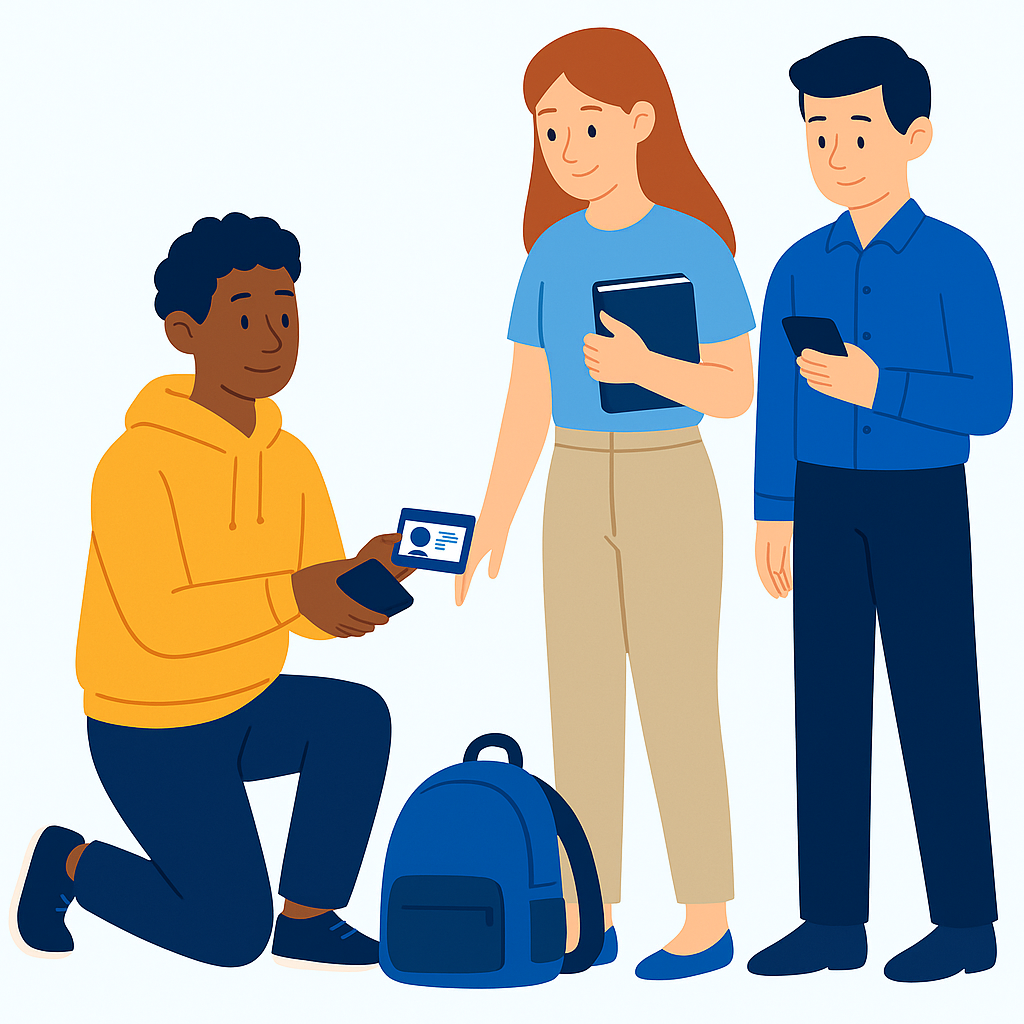
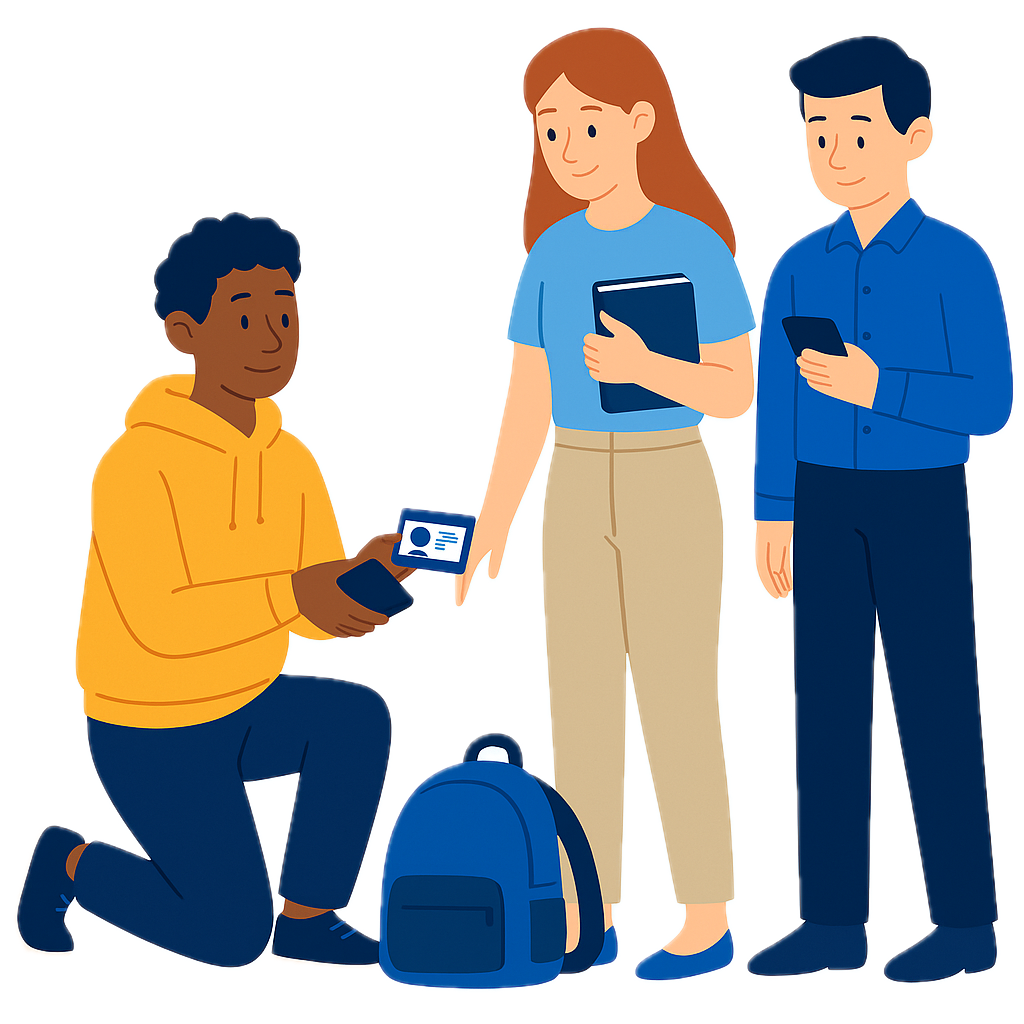
Fix TypeScript and React hydration errors
- Fixed 'Cannot find name userId' error in AuthContext.tsx by using data.body.user._id from API response
- Resolved React hydration error in view-all-items page by adding mounted state check
- Fixed duplicate React keys issue in floor selection dropdown by using index-based keys
- Updated UI text from 'Floor' to 'Location' for better user experience
- Applied hydration fix pattern to itemManagement page as well

diff --git a/src/features/items/components/ItemManagementForm.tsx b/src/features/items/components/ItemManagementForm.tsx
@@ -34,23 +34,38 @@ export default function ItemManagementForm({ initialItems = [] }: ItemManagement
       // Create FormData for upload
       const formData = new FormData();
       
+      // Check if user is logged in first
+      if (!user?.id) {
+        toast.error('You must be logged in to upload items');
+        return;
+      }
+      
       // Required fields with defaults
       formData.append('itemName', values.title);
       formData.append('itemDescription', values.description);
       formData.append('status', values.type); // 'found' or 'lost'
-      formData.append('floor', String(Math.floor(Math.random() * 5) + 1)); // Random floor between 1-5
-      formData.append('uploaderName', user ? `${user.firstName} ${user.lastName}` : 'Anonymous');
-      if (user?.id) {
-        formData.append('userId', user.id);
-      }
+      formData.append('floor', values.location); // location as floor
+      formData.append('uploaderId', user.id); // userID as uploaderId
+      formData.append('uploaderName', `${user.firstName} ${user.lastName}`); // user name as uploaderName
+      
       
       // Optional fields
       if (values.image) {
         formData.append('image', values.image);
+        console.log('🖼 [ItemUpload] Image attached:', {
+          name: (values.image as File).name,
+          size: (values.image as File).size,
+          type: (values.image as File).type
+        });
+      } else {
+        console.log('📷 [ItemUpload] No image attached');
       }
 
-      await uploadItem(formData);
+      console.log('⬆ [ItemUpload] Calling uploadItem API...');
+      const result = await uploadItem(formData);
+      console.log('✅ [ItemUpload] Upload successful:', result);
       
+      console.log('🎉 [ItemUpload] Showing success toast');
       toast.success('Item uploaded successfully!');
       
       // Add the new item to local state
@@ -63,14 +78,21 @@ export default function ItemManagementForm({ initialItems = [] }: ItemManagement
         image: values.image,
         resolved: false,
       };
+      console.log('📝 [ItemUpload] Adding item to local state:', newItem);
       setItems([...items, newItem]);
 
-      toast.success('Item uploaded successfully!');
+      console.log('🔄 [ItemUpload] Resetting form');
       reset();
     } catch (error) {
-      console.error('Error:', error);
+      console.error('❌ [ItemUpload] Upload failed:', error);
+      console.error('❌ [ItemUpload] Error details:', {
+        message: error instanceof Error ? error.message : 'Unknown error',
+        stack: error instanceof Error ? error.stack : undefined
+      });
       toast.error('Failed to upload item. Please try again.');
     }
+    
+    console.log('🏁 [ItemUpload] Form submission completed');
   };
 
   const handleImageChange = (e: ChangeEvent<HTMLInputElement>) => {

diff --git a/src/app/view-all-items/page.tsx b/src/app/view-all-items/page.tsx
@@ -141,7 +141,7 @@ function ItemCard({ item, index, isAdmin }: { item:  Item; index: number; isAdmi
         <p className="text-gray-600 text-xs mb-1">Uploaded by: <span className="font-medium text-gray-800">{uploaderName}</span></p>
         <p className="text-gray-600 text-sm mb-2 line-clamp-2">{item.itemDescription || "No description provided."}</p>
         <div className="flex flex-wrap gap-2 text-xs text-gray-500 mb-2">
-          {item.floor && <span className="bg-blue-50 px-2 py-1 rounded">Floor: {item.floor}</span>}
+          {item.floor && <span className="bg-blue-50 px-2 py-1 rounded">Location: {item.floor}</span>}
           {item.uploadedAt && <span className="bg-gray-50 px-2 py-1 rounded">{new Date(item.uploadedAt).toLocaleDateString()}</span>}
         </div>
         <div className="mt-auto flex gap-2">
@@ -177,6 +177,7 @@ export default function AdminViewAllItemsPage() {
   const [status, setStatus] = useState("");
   const [floor, setFloor] = useState("");   
   const [filteredItems, setFilteredItems] = useState<Item[]>([]);
+  const [mounted, setMounted] = useState(false);
 
   const router = useRouter();
   const { user } = useAuth(); 
@@ -244,6 +245,11 @@ export default function AdminViewAllItemsPage() {
     return Array.from(new Set((itemsStore || []).map((item: Item) => item.floor).filter(Boolean))).sort() as number[];
   }, [itemsStore]);
 
+  // Effect for client-side mounting
+  useEffect(() => {
+    setMounted(true);
+  }, []);
+
   // Effect for scroll handling
   useEffect(() => {
     const handleScroll = () => {
@@ -291,7 +297,7 @@ export default function AdminViewAllItemsPage() {
                   {user?.firstName?.[0] || 'A'}{user?.lastName?.[0] || ''}
                 </span>
               )}
-              <span className="ml-1 font-semibold text-base truncate max-w-[90px]">{user ? `${user.firstName} ${user.lastName}` : 'Admin'}</span>
+              <span className="ml-1 font-semibold text-base truncate max-w-[90px]">{mounted && user ? `${user.firstName} ${user.lastName}` : 'Admin'}</span>
             </button>
           </div>
         )}
@@ -328,8 +334,8 @@ export default function AdminViewAllItemsPage() {
               className="px-4 py-2 border border-gray-300 rounded-lg focus:ring-2 focus:ring-blue-500 focus:border-transparent"
             >
               <option value="">Location</option>
-              {allFloors.map((f: number) => (
-                <option key={String(f)} value={String(f)}>{f}</option>
+              {allFloors.map((f: number, index: number) => (
+                <option key={`floor-${index}-${f}`} value={String(f)}>{f}</option>
               ))}
             </select>
           </div>

diff --git a/src/components/forms/LoginForm.tsx b/src/components/forms/LoginForm.tsx
@@ -37,7 +37,7 @@ export default function LoginForm() {
     <div className="space-y-6">
       <form onSubmit={handleSubmit} className="space-y-4">
         <div>
-          <label htmlFor="email" className="block text-sm font-medium text-gray-700">
+          <label htmlFor="email" className="block text font-medium text-gray-700">
             Email Address
           </label>
           <input
@@ -46,12 +46,12 @@ export default function LoginForm() {
             value={email}
             onChange={(e) => setEmail(e.target.value)}
             required
-            placeholder="you@student.epita.fr"
+            placeholder="Email"
             className="mt-1 w-full p-2 border border-gray-300 rounded-md focus:ring-cyan-500 focus:border-cyan-500"
           />
         </div>
         <div>
-          <label htmlFor="password" className="block text-sm font-medium text-gray-700">
+          <label htmlFor="password" className="block text font-medium text-gray-700">
             Password
           </label>
           <input
@@ -60,6 +60,7 @@ export default function LoginForm() {
             value={password}
             onChange={(e) => setPassword(e.target.value)}
             required
+            placeholder="Password"
             className="mt-1 w-full p-2 border border-gray-300 rounded-md focus:ring-cyan-500 focus:border-cyan-500"
           />
         </div>

diff --git a/src/app/itemManagement/page.tsx b/src/app/itemManagement/page.tsx
@@ -8,6 +8,11 @@ import { useRouter } from "next/navigation";
 import { useAuth } from '@/contexts/AuthContext';
 
 export default function ItemManagementPage() {
+  const [isClient, setIsClient] = useState(false);
+  useEffect(() => {
+    setIsClient(true);
+  }, []);
+
   const [sidebarOpen, setSidebarOpen] = useState(true);
   const { user } = useAuth();
   // Set activeMenu based on user role
@@ -63,7 +68,7 @@ export default function ItemManagementPage() {
                   {user?.firstName?.[0] || 'U'}{user?.lastName?.[0] || ''}
                 </span>
               )}
-              <span className="ml-1 font-semibold text-base truncate max-w-[90px]">{user ? `${user.firstName} ${user.lastName}` : 'User'}</span>
+              <span className="ml-1 font-semibold text-base truncate max-w-[90px]">{isClient && user ? `${user.firstName} ${user.lastName}` : 'User'}</span>
             </button>
           </div>
         )}

diff --git a/src/contexts/AuthContext.tsx b/src/contexts/AuthContext.tsx
@@ -88,7 +88,7 @@ export function AuthProvider({ children }: { children: ReactNode }) {
       });
       
       setUser({
-        id: userData.userID,
+        id: userData.email,
         firstName: userData.name?.split(' ')[0] || '',
         lastName: userData.name?.split(' ')[1] || '',
         email: userData.email,
@@ -122,7 +122,7 @@ export function AuthProvider({ children }: { children: ReactNode }) {
 
       if (data.statusCode === 201) {
         setUser({
-          id: data.body.user.user.email,
+          id: data.body.user._id,
           firstName: userData.first_name,
           lastName: userData.last_name,
           email: userData.email,

diff --git a/src/app/login/page.tsx b/src/app/login/page.tsx
@@ -4,12 +4,14 @@ export default function LoginPage() {
   return (
     <div className="flex h-screen overflow-hidden">
       {/* Left section with logo and background */}
-      <div className="w-1/2 bg-gray-100 flex items-center justify-center">
+      <div className="w-1/2 bg-white flex items-center justify-center">
         {/* Image with responsive sizing */}
         <img
           src="/lost-image.png"
           alt="Illustration"
           className="max-w-full max-h-full object-contain p-4"
+          width={500}
+          height={500}
         />
       </div>
 

diff --git a/src/app/page.tsx b/src/app/page.tsx
@@ -170,7 +170,7 @@ export default function Home() {
               <div className="absolute inset-0 bg-gradient-to-r from-cyan-500/20 to-indigo-500/20 rounded-2xl transform rotate-3"></div>
               <div className="relative">
                 <Image
-                  src="/Home-fg.png"
+                  src="/lost2Cause_logo.png"
                   alt="Lost and Found Illustration"
                   width={500}
                   height={500}
